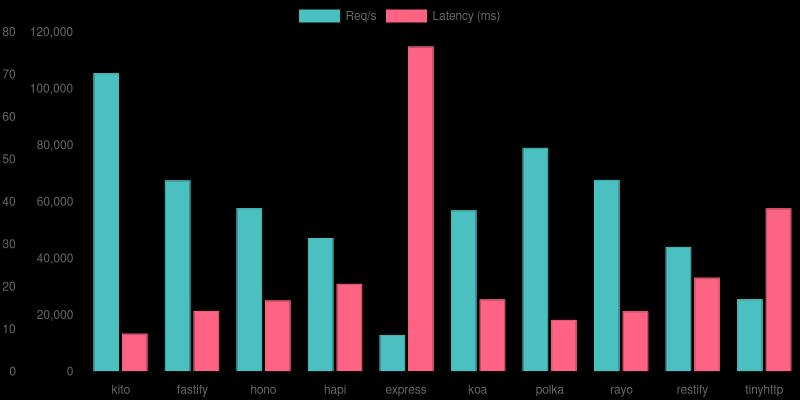
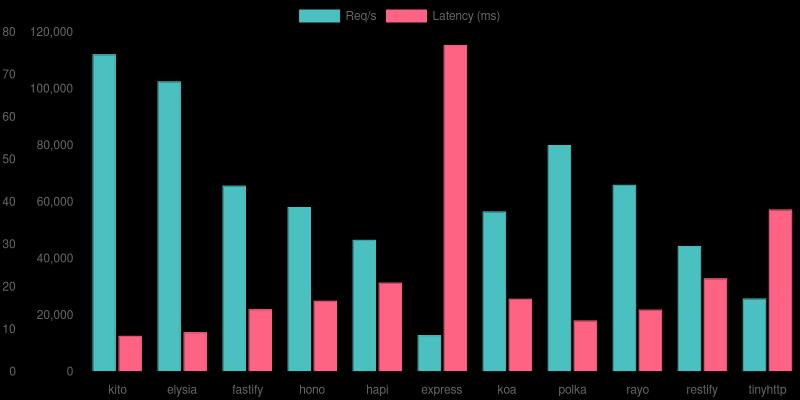
✅ test: Added Elysia to benchmarks

diff --git a/bench/consts.js b/bench/consts.js
@@ -3,6 +3,12 @@ const results = [];
 const servers = [
   { name: 'kito', runner: 'deno', args: ['run', '-A'], extension: 'ts' },
   {
+    name: 'elysia',
+    runner: 'bun',
+    args: [],
+    extension: 'ts',
+  },
+  {
     name: 'fastify',
     runner: 'node',
     args: ['--no-warnings', '--experimental-strip-types'],

diff --git a/bench/servers/elysia.ts b/bench/servers/elysia.ts
@@ -1,0 +1,3 @@
+import { Elysia } from 'elysia';
+
+new Elysia().get('/', 'Hello, world!').listen(3000);
